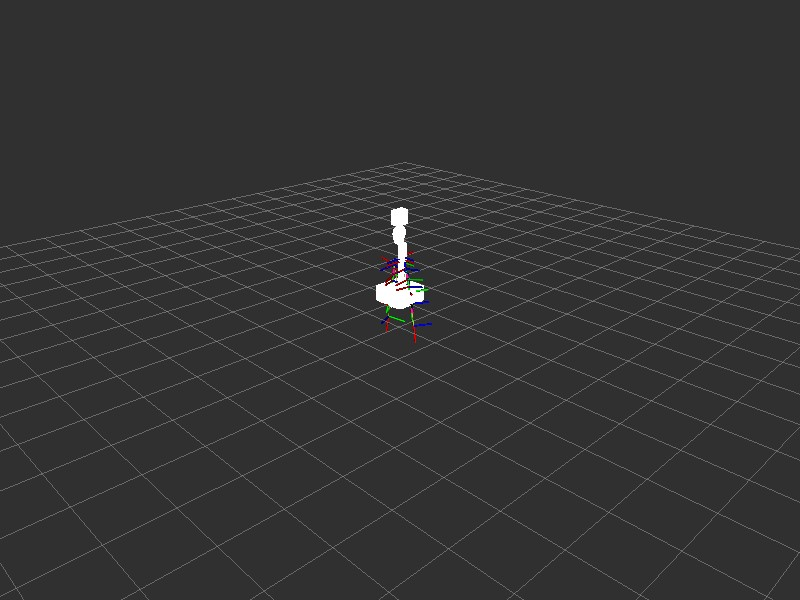
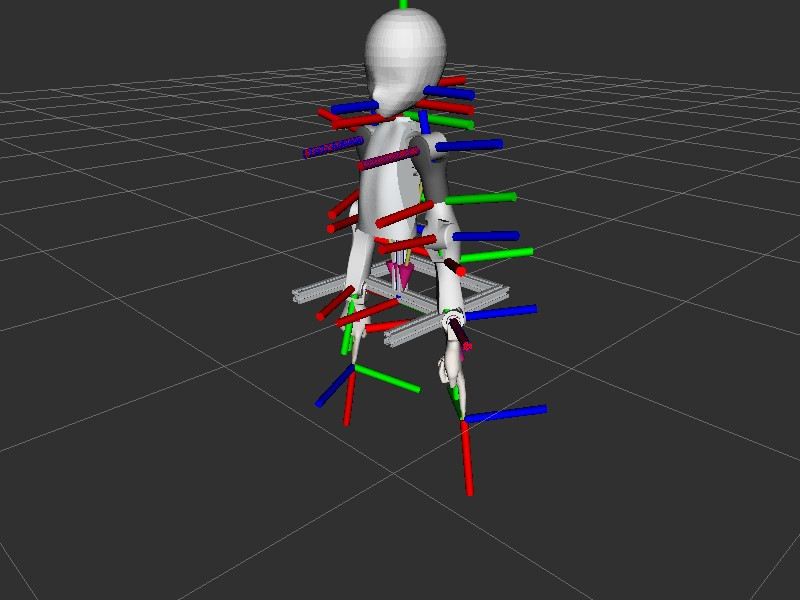
fix(offscreen): bind RobotModel meshes to live TF (fix pile-at-origin)
Root cause: the URDF published to RobotModel used _link-suffixed link names
that did not match the live TF frame names, so every link transform lookup
failed and all meshes rendered at the fixed-frame origin.

- Publish the robot's actual /robot_description (link names == TF frames)
  with file:// mesh paths instead of the stale _link-suffixed URDF
- Remove the self-built rclcpp::spin(raw_node) thread: VisualizationManager
  owns a SingleThreadedExecutor that onUpdate() already spins; spinning the
  node ourselves crashed with 'node already added to an executor' (exit 250)
- Add FrameManager diagnostics (transformer class id, frame names,
  transformHasProblems) so mesh<->TF binding status is visible in the log
- Set Orbit camera Distance ~1.5-2.0 m for an RViz-like close view
- Update robot-state-vision-analysis skill with the Jazzy Description
  Source/Topic requirement, URDF<->TF frame-name matching rule, file://
  mesh paths, camera distance and FM frames diagnostic
- Update architecture.md 4.4 / robot-state-vision-test.md 6 and refresh
  docs/images/robot_mesh_full.jpg with the verified correct render

diff --git a/src/skill.ts b/src/skill.ts
@@ -72,8 +72,10 @@ One headless pipeline: **status data → offscreen RViz render → parallel VLM 
 2. **Offscreen render (L4, headless).**
    - If \`/rviz/scene\` has no publisher, start the offscreen renderer under Xvfb:
      \`xvfb-run -a -s "-screen 0 1280x800x24" ros2 run dsh_ros2_rviz_offscreen rviz_offscreen_node --ros-args -p config_path:=<scene.rviz> -p topic:=/rviz/scene -p width:=800 -p height:=600 -p rate:=5.0\`
-   - Minimal scene config: \`Grid\` + \`TF\` + \`RobotModel\` (Robot Description \`robot_description\`), Fixed Frame = the root frame (e.g. \`chest\`).
-   - Confirm frames flow: \`ros2_image_snapshot {topic: "/rviz/scene"}\`.
+   - Minimal scene config (\`.rviz\` YAML): \`Grid\` + \`TF\` + \`RobotModel\`, \`Fixed Frame\` = the TF root (e.g. \`chest\`). **Jazzy RobotModel needs \`Description Source: Topic\` + \`Description Topic\`** — the legacy \`Robot Description:\` property is ignored and leaves \`Links\` empty.
+   - **The URDF published on the Description Topic MUST match the live TF frame names.** Publish the robot's actual description (echo \`/robot_description\`) after rewriting mesh paths to \`file://\` absolutes (bare/relative paths fail in \`resource_retriever\`; \`package://\` works only if the package is on \`AMENT_PREFIX_PATH\`). A stale/mismatched URDF (link names ≠ TF frame names) makes every link render at the fixed-frame origin — the classic "all parts piled at origin" symptom. Keep the publisher alive (transient-local, republish periodically) — the description is read at load time.
+   - Camera: Orbit view, \`Distance\` ≈ 1.5–2.0 m (a close RViz-like sight of the robot), \`Yaw\`/\`Pitch\` for a three-quarter view. Distance ≳ 5 m shrinks the robot to a tiny center blob.
+   - Confirm frames flow before trusting the image: \`ros2_image_snapshot {topic: "/rviz/scene"}\`; the render node logs \`FM: ... frames=N\` + \`transformHasProblems(...)=0\` once TF is live (~3 s).
 
 3. **Feed the VLM (L4 pipeline).**
    - \`vlm_node\` + \`vision_bringup\` auto-bring up one bridge per image topic; then
@@ -82,6 +84,7 @@ One headless pipeline: **status data → offscreen RViz render → parallel VLM 
 
 4. **Cross-check the findings.**
    - A VLM "anomaly" in the render must be verified against numbers: e.g. dense/overlapping TF axes at a *zero* joint pose is expected (collinear links), not a URDF bug; a real TF problem shows broken/missing chains or NaN transforms.
+   - **Everything rendering at the fixed-frame origin** = RobotModel could not resolve any link transform. Check the render log's \`FM transformHasProblems(<link>)=1\`: if the frame is unknown, compare the published URDF link names against \`ros2_tf_list\` frame names — they must match exactly (a \`_link\`-suffixed URDF against bare TF frames is the usual culprit). If \`frames=0\` persistently, TF itself never reached rviz (subscription/QoS), not a URDF issue.
    - Combine with camera analysis (\`ros2_vision_analyze\` on \`image_raw/compressed\` topics) for surroundings.
 
 ## Notes

diff --git a/offscreen/src/rviz_offscreen_node.cpp b/offscreen/src/rviz_offscreen_node.cpp
@@ -124,6 +124,10 @@ int main(int argc, char ** argv)
   const double rate_hz = node->get_parameter("rate").as_double();
 
   // Real rviz stack: render panel + central visualization manager.
+  // NOTE: VisualizationManager owns a private SingleThreadedExecutor that
+  // holds the raw node (add_node in its ctor) and spins it from onUpdate()
+  // (executor_->spin_some). Do NOT spin the raw node ourselves — rclcpp
+  // rejects a node that already belongs to another executor.
   auto ros_abs = std::make_shared<rviz_common::ros_integration::RosNodeAbstraction>("rviz_offscreen_ros");
   auto panel = std::make_unique<rviz_common::RenderPanel>();
   panel->resize(width, height);
@@ -181,6 +185,7 @@ int main(int argc, char ** argv)
 
   RCLCPP_INFO(node->get_logger(), "rviz_offscreen_node: publishing %s at %.1f Hz (%dx%d)", topic.c_str(), rate_hz, width, height);
   bool first_frame = true;
+  uint64_t frame_idx = 0;
   while (rclcpp::ok()) {
     // Drive the rviz update pipeline explicitly (it is normally a 30 Hz QTimer
     // slot): updates Displays + FrameManager + spins rviz's ROS node so TF and
@@ -195,6 +200,33 @@ int main(int argc, char ** argv)
         invoked ? 1 : 0, group ? group->numDisplays() : -1);
       first_frame = false;
     }
+    // FrameManager diagnostics: which transformer is active and does rviz's
+    // own TF buffer actually resolve the robot frames? The detailed dump runs
+    // once after warmup (a few seconds, when TF has arrived); a one-line
+    // frames count keeps running so a later TF loss is visible in the log.
+    if (frame_idx == 15 || (frame_idx % 100 == 0)) {
+      auto * fm = vm.getFrameManager();
+      if (fm) {
+        std::string err;
+        std::string tf_id = fm->getTransformer() ? fm->getTransformer()->getClassId().toStdString() : "<none>";
+        auto names = fm->getAllFrameNames();
+        RCLCPP_INFO(
+          node->get_logger(), "FM: transformer=%s fixed=%s frames=%zu",
+          tf_id.c_str(), fm->getFixedFrame().c_str(), names.size());
+        if (frame_idx == 15) {
+          for (size_t i = 0; i < names.size(); ++i) {
+            RCLCPP_INFO(node->get_logger(), "FM frame[%zu]: %s", i, names[i].c_str());
+          }
+          for (const auto & f : {"chest", "left_shoulder_pitch", "left_elbow_pitch",
+                                 "right_wrist_yaw", "head", "base_link"}) {
+            err.clear();
+            bool bad = fm->transformHasProblems(f, err);
+            RCLCPP_INFO(node->get_logger(), "FM transformHasProblems(%s)=%d %s", f, bad ? 1 : 0, err.c_str());
+          }
+        }
+      }
+    }
+    ++frame_idx;
     auto * win = panel->getRenderWindow();
     if (win) {
       win->render();

diff --git a/docs/robot-state-vision-test.md b/docs/robot-state-vision-test.md
@@ -127,3 +127,43 @@
 - `vision_bringup` 一次性发现可能不完整（本场合计发现 2/4 路，head 与 rviz_scene
   需手动补桥）——后续可加轮询/刷新发现；
 - mesh 渲染的 URDF 发布者需常驻（transient-local 发布者退出后新订阅者收不到）。
+
+---
+
+## 6. 补充：mesh/TF 绑定修复与正确渲染验证（v0.8.1，2026-08-20）
+
+### 6.1 问题：所有零件堆叠在原点
+
+v0.8.0 的 mesh 渲染图（§5.1）视觉上**全部零件 + TF 坐标轴堆叠在原点**，与
+"mesh 应与 TF 绑定"的预期不符。排查结论：
+
+1. **根因 = URDF 与 TF 帧名不匹配**：发布给 RobotModel 的 URDF 是一套 `_link` 后缀
+   的旧文件（`left_shoulder_pitch_link`…），而真机 TF 帧名为**不带后缀**的
+   `left_shoulder_pitch`…。RobotModel 按 URDF link 名查变换全部失败 → 所有 mesh
+   渲染到固定坐标系原点。
+2. **修复**：直接抓取真机实际描述（订阅 `/robot_description`，21 个 link 名与 TF
+   帧名一一对应），mesh 路径改写为 `file:///tmp/live_meshes/…` 后常驻发布到
+   `/robot_description_abs`。
+3. **次要因素**：`.rviz` 相机 `Distance` 被误设为 8（一次 sed 未匹配），机器人缩成
+   画面中心小点；调回 1.8 后得到 RViz 式近景全身视角。
+
+### 6.2 修复后验证
+
+![修复后 mesh/TF 绑定渲染](images/robot_mesh_full.jpg)
+
+- 节点日志（启动 ~3s 后）：`FM: ... frames=21`，且
+  `transformHasProblems(chest/left_shoulder_pitch/left_elbow_pitch/right_wrist_yaw/head/base_link)=0`
+  —— rviz 自身 TF 缓冲已解析全部机器人帧（新增的内置诊断）；
+- 像素分析：白色 mesh 区域 240×435 px、TF 三色轴纵跨 y 48..520，非原点堆叠；
+- VLM 确认：头/躯干/双臂完整、各部件位于正确分离位置（"not collapsed into a
+  single point"）、双臂下垂（与关节数值、用户零位标定一致）；
+- 连续多帧快照字节一致，渲染稳定。
+
+### 6.3 代码变更（`rviz_offscreen_node.cpp`）
+
+- **删除**了错误的自建 `rclcpp::spin(raw_node)` 线程：`VisualizationManager` 内部
+  持有一个 `SingleThreadedExecutor`（构造时 `add_node`），`onUpdate()` 里已
+  `spin_some`，自行 spin 会因"node already added to an executor"崩溃（exit 250）；
+- **新增** FrameManager 诊断：`getTransformer()->getClassId()`（确认 TF 插件而非
+  Identity 回退）、`getAllFrameNames()`、`transformHasProblems()`，预热后打印一次
+  全帧名，之后每 20s 打印一行帧数，便于判定 mesh/TF 绑定状态。

diff --git a/CHANGELOG.md b/CHANGELOG.md
@@ -4,6 +4,31 @@ All notable changes to **dsh-ros2** are documented here. Format follows
 [Keep a Changelog](https://keepachangelog.com/); versions follow
 [SemVer](https://semver.org/).
 
+## [0.8.1] - 2026-08-20
+
+### Fixed
+
+- **RViz2 离屏渲染"零件堆叠在原点"问题**：根因是发布给 RobotModel 的 URDF link 名
+  与实时 TF 帧名不匹配（`_link` 后缀旧文件 vs 真机裸名），导致所有 link 变换查找失败、
+  mesh 全部渲染到固定坐标系原点。修复方式：直接抓取真机 `/robot_description`
+  （link 名与 TF 帧名一一对应）+ `file://` mesh 路径改写后常驻发布。
+- **删除自建 `rclcpp::spin(raw_node)` 线程**：`VisualizationManager` 内部持有
+  `SingleThreadedExecutor`（`onUpdate()` 已 `spin_some`），自行 spin 触发
+  "node already added to an executor" 崩溃（exit 250）。
+- **新增 FrameManager 诊断**：启动 ~3s 后打印 transformer 类型、帧数、全帧名与
+  `transformHasProblems(...)` 判定，之后每 20s 打印一行帧数——mesh 是否正确绑定 TF
+  可直接从日志判定。
+
+### Changed
+
+- **相机视距修正**：Orbit `Distance` ≈ 1.5–2.0 m 得到 RViz 式近景全身视角（误设 8 时
+  机器人缩成画面中心小点）。
+- **skill `robot-state-vision-analysis` 更新**：离屏渲染步骤补充 Jazzy
+  `Description Source/Topic`、URDF↔TF 帧名必须一致（否则堆叠原点）、`file://` mesh
+  路径、视距 1.5–2.0 m 与 `FM frames` 判定信号；交叉验证新增"全渲染在原点"的排查路径。
+- **文档**：`docs/architecture.md` §4.4 与 `docs/robot-state-vision-test.md` §6
+  记录根因、修复与验证；`docs/images/robot_mesh_full.jpg` 更新为修复后正确渲染图。
+
 ## [0.8.0] - 2026-08-20
 
 ### Changed / Fixed
